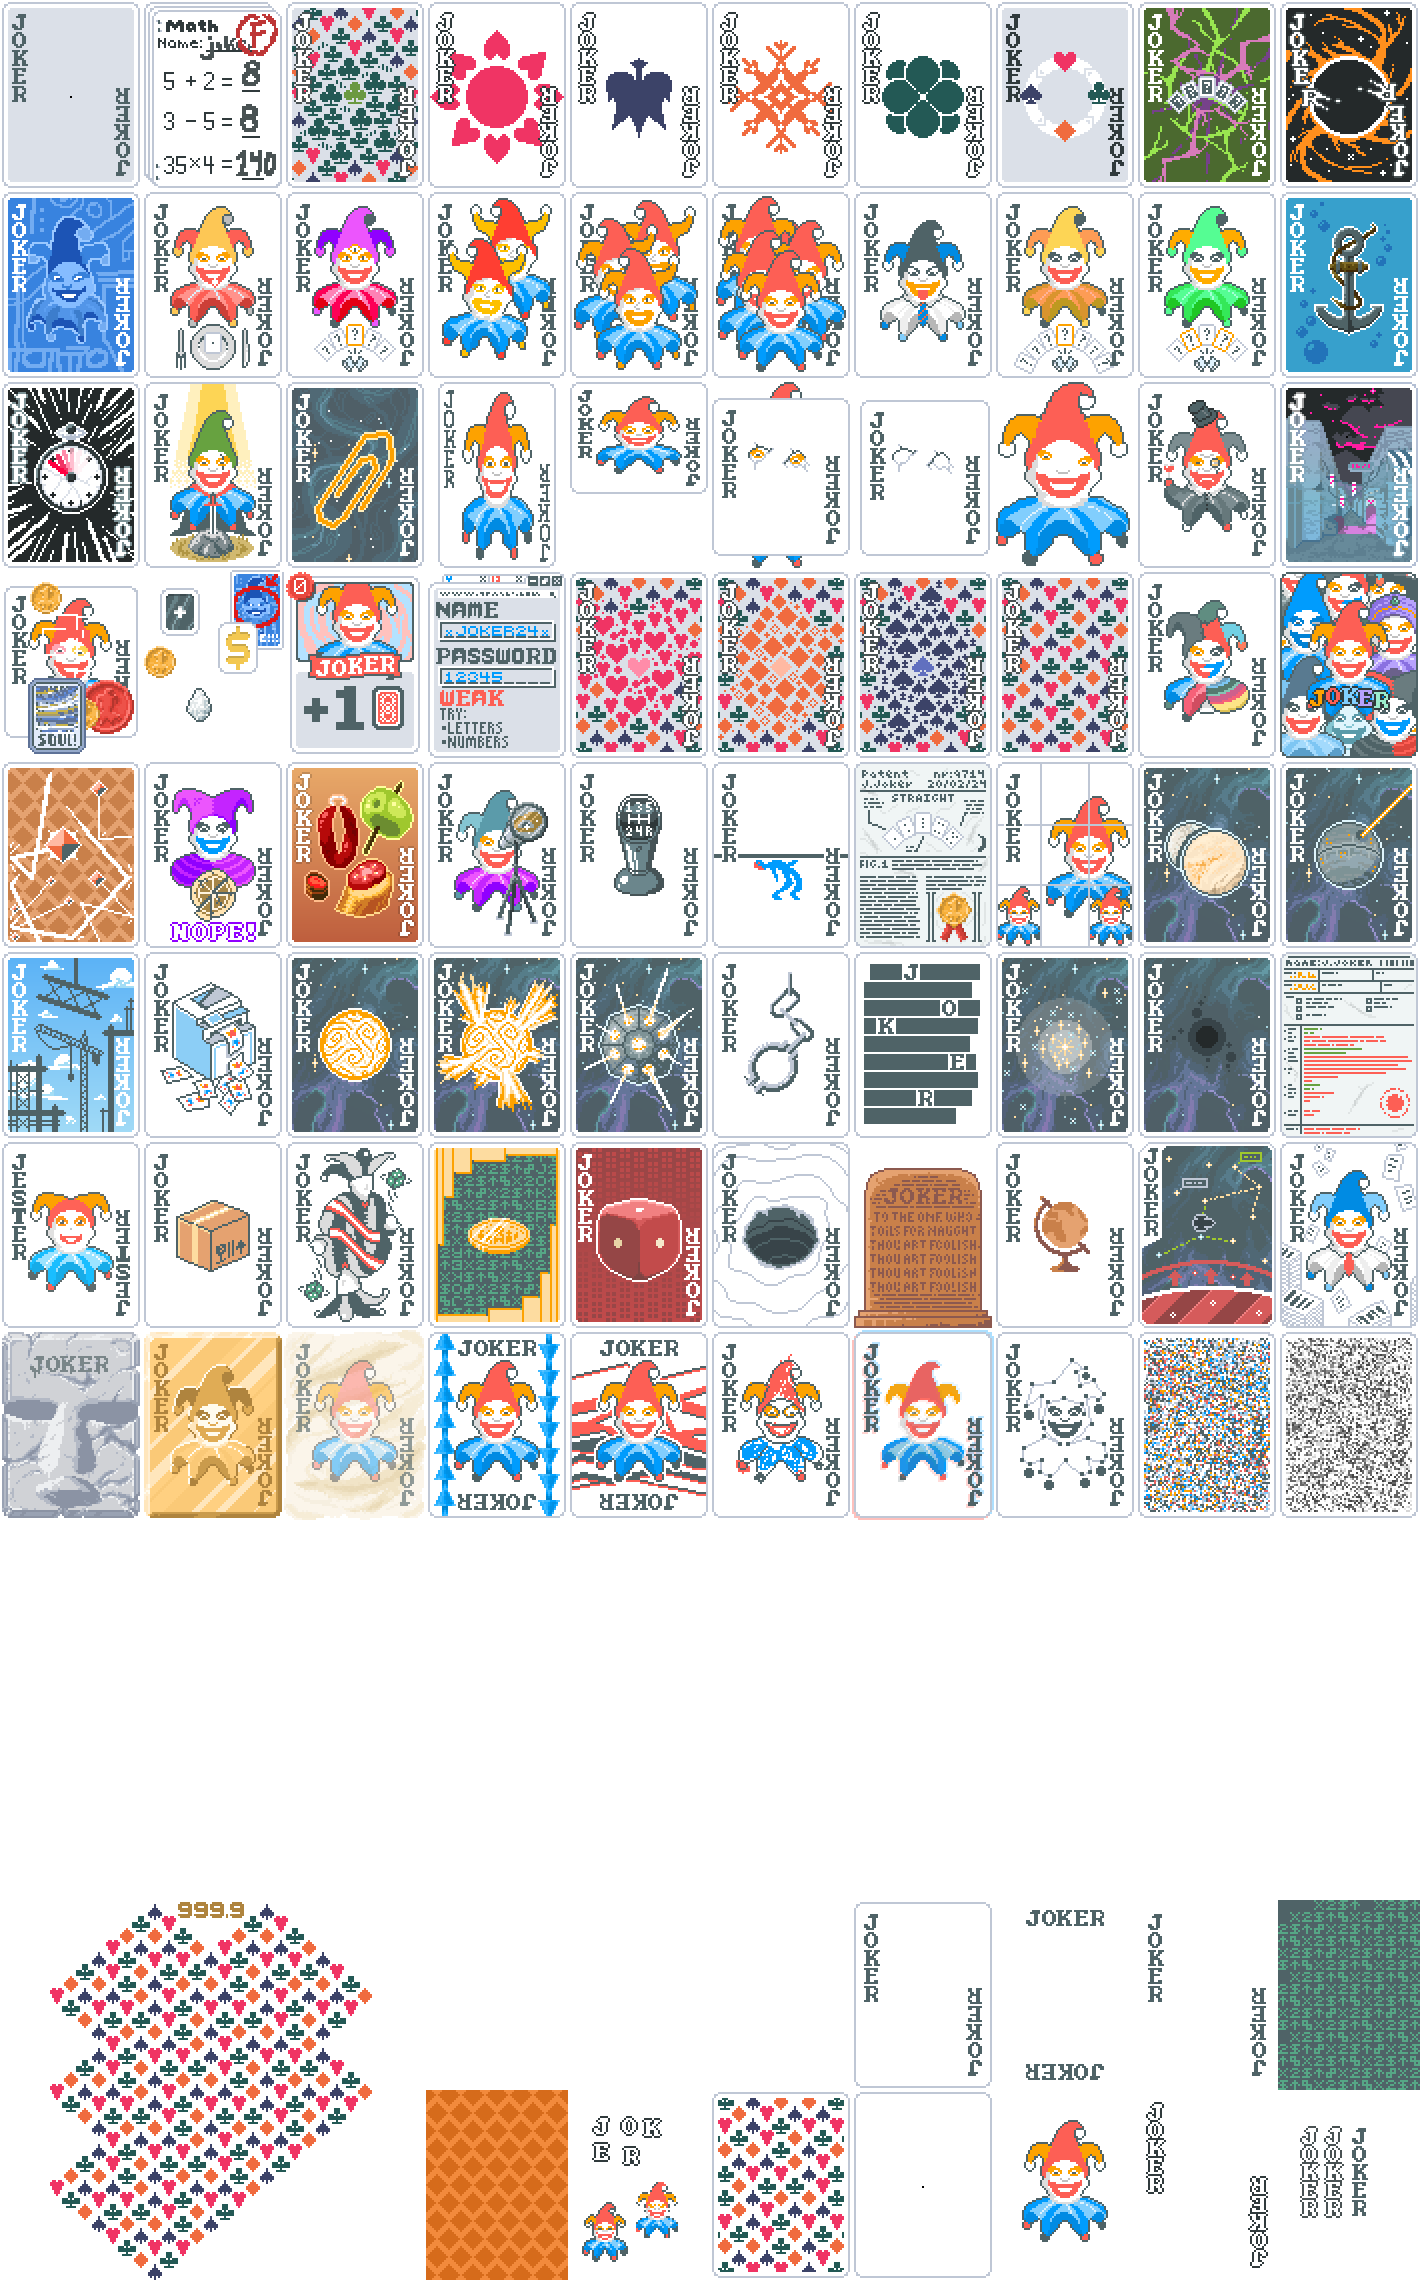
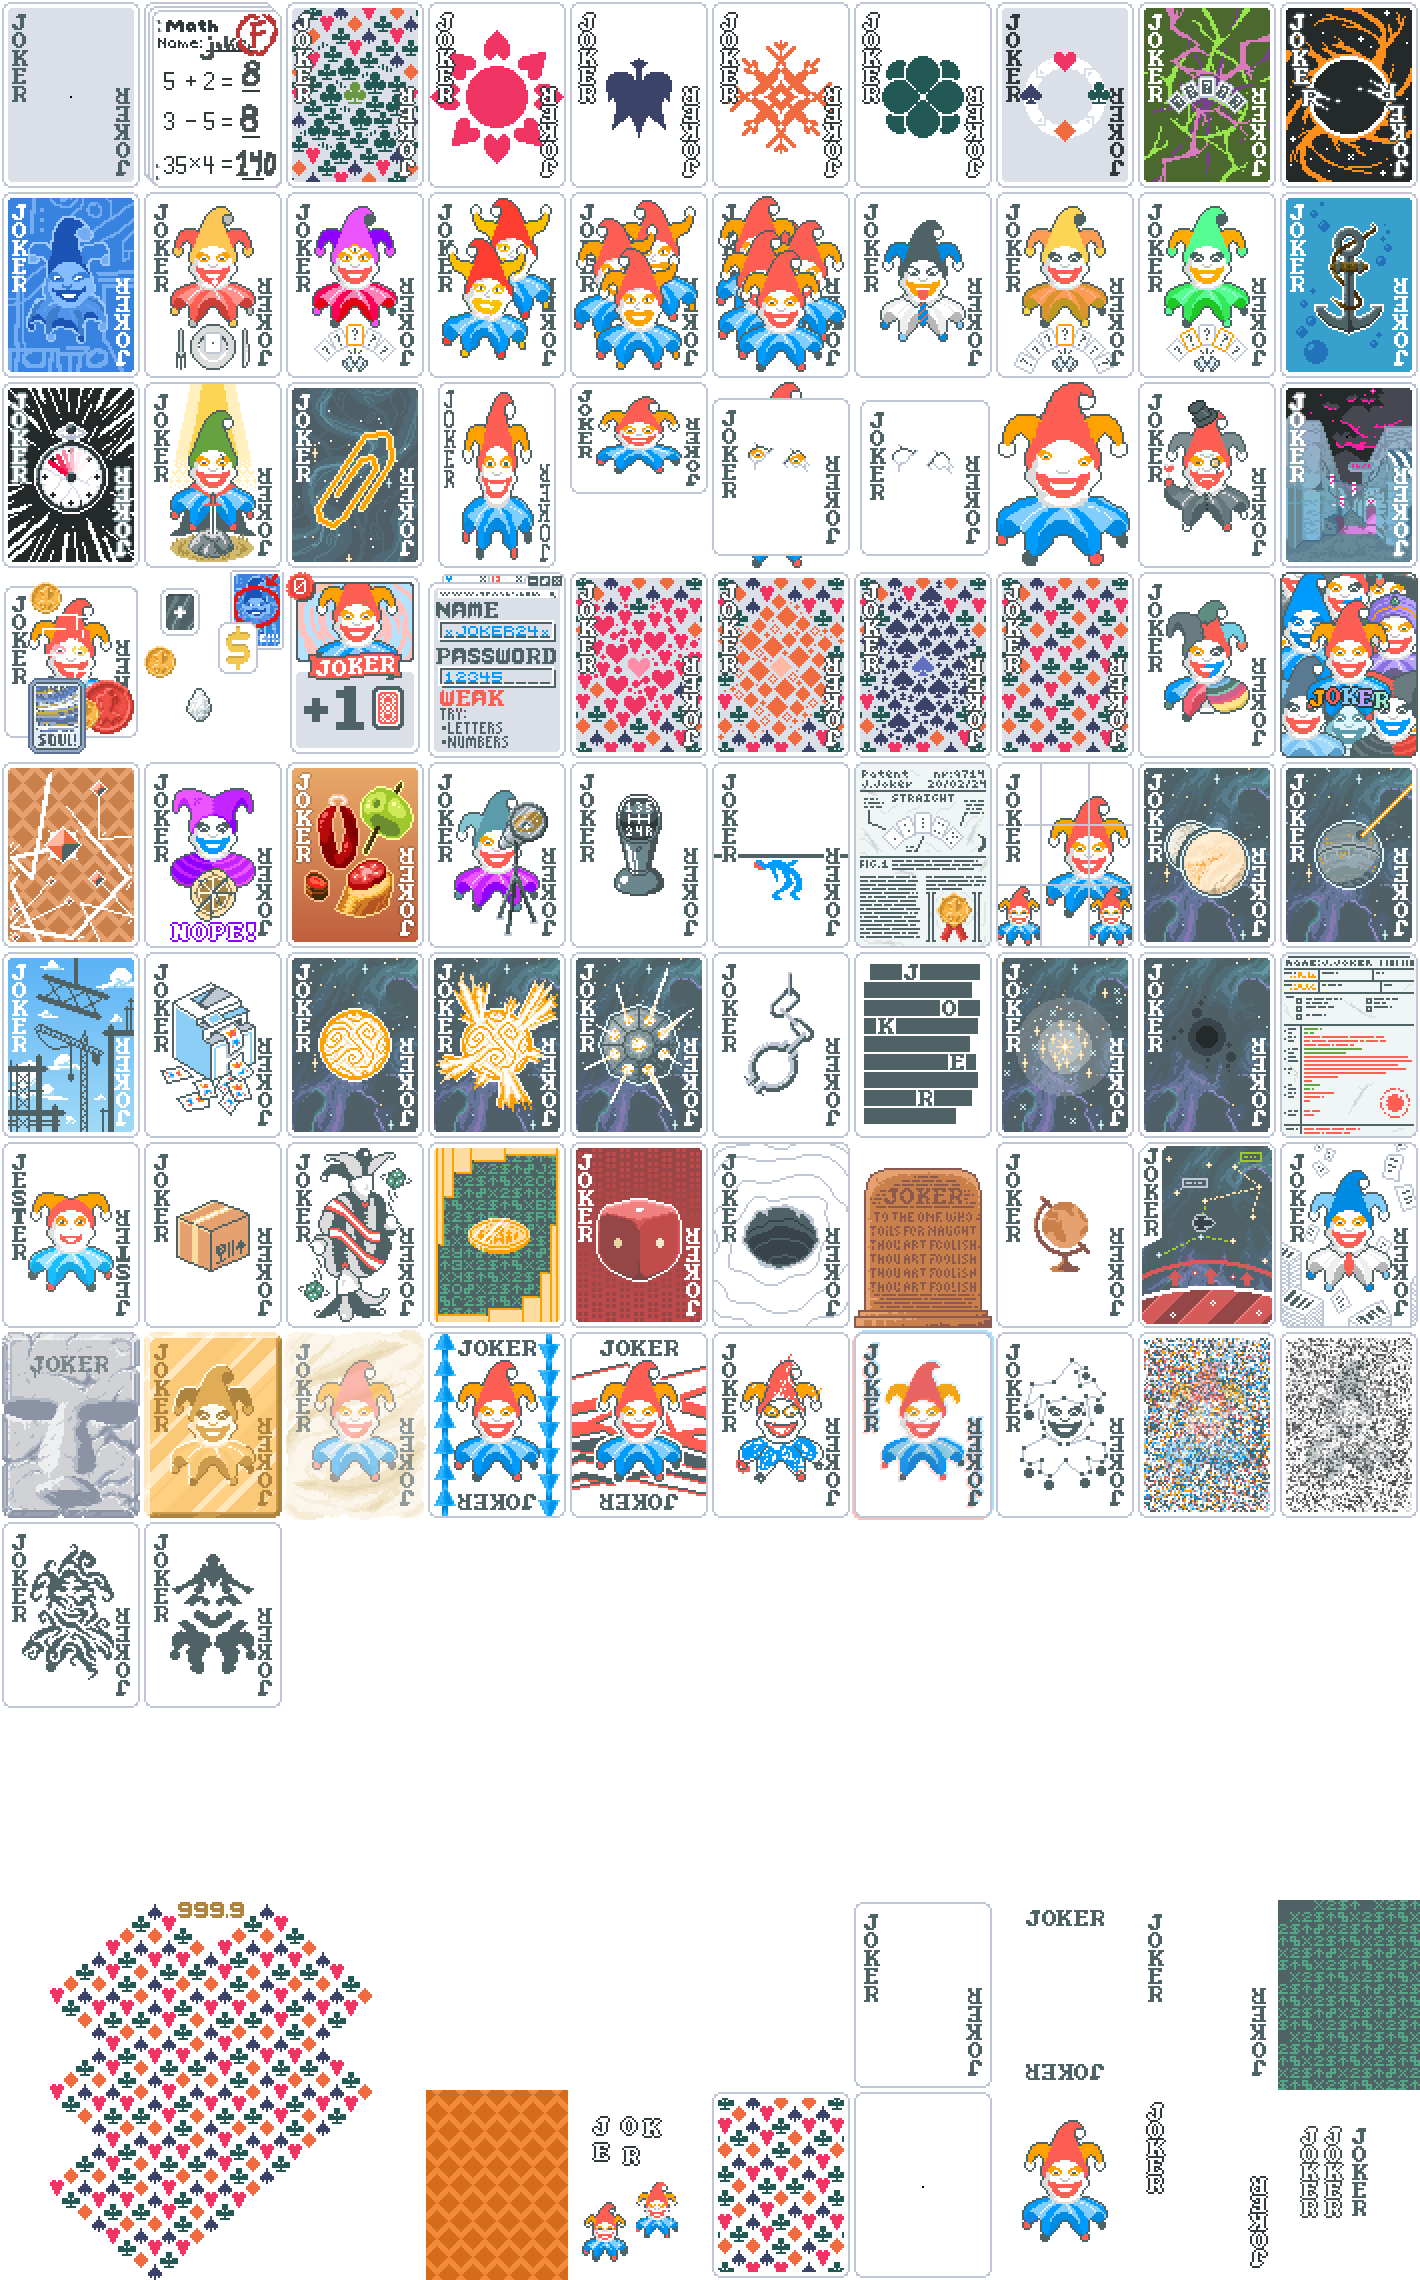
Add Mult Joker

Changed region(s): [[0.0, 0.6539, 0.2169, 0.7474], [0.9296, 0.5917, 0.9915, 0.6539], [0.8056, 0.5917, 0.8676, 0.6539]]

diff --git a/web/addjokers.js b/web/addjokers.js
@@ -565,6 +565,14 @@ let jokers = [
     image_url: "img/j/whistleblower.png",
     rarity: "Common"
   },
+  {
+    name: "Mult Joker",
+    text: [
+      "Gives {C:mult}+2{} Mult for each {C:attention}Mult Card{} in your {C:attention}full deck{}",
+    ],
+    image_url: "img/j/mult.png",
+    rarity: "Uncommon"
+  },
 
   // {
   //   name: "",
